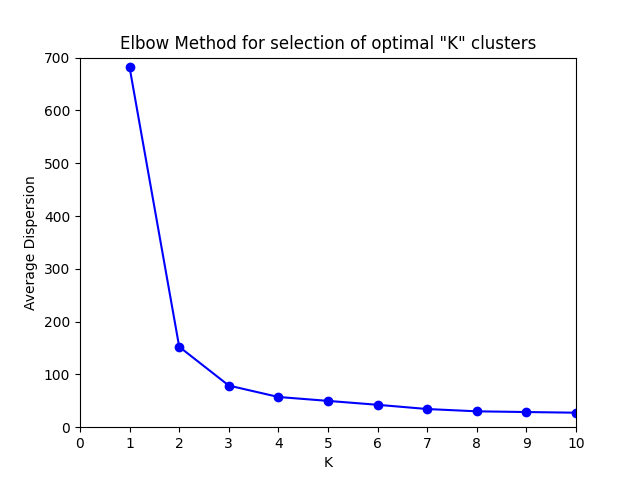
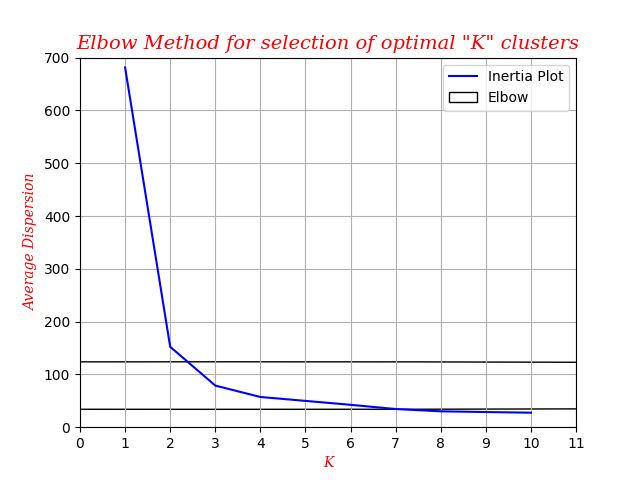
almost finished graph

diff --git a/bonus.py b/bonus.py
@@ -1,5 +1,6 @@
 import numpy as np 
 import matplotlib.pyplot as plt 
+import matplotlib.patches as patch
 from sklearn.datasets import load_iris
 from sklearn.cluster import KMeans
 
@@ -13,15 +14,19 @@ def main():
     x_coordinates, y_coordinates = zip(*results)
     max_inertia = max(y_coordinates)
     fig, ax = plt.subplots()
-    ax.set_xlim(0, 9)
-    ax.set_xticks(np.arange(0, 11, 1))
-    ax.set_ylim(0, 3)
+    ax.set_xlim(0, None)
+    ax.set_xticks(np.arange(0, 11.5, 1))
+    ax.set_ylim(0, None)
     ax.set_yticks(np.arange(0, max_inertia * 1.15, 100))
-    ax.set_title('Elbow Method for selection of optimal "K" clusters')
-    ax.set_xlabel("K")
-    ax.set_ylabel("Average Dispersion")
-    ax.plot(x_coordinates, y_coordinates, marker='o', linestyle='-', color='blue')
-
+    font1 = {'family':'serif','color':'red','size': 14, 'style': 'italic'}
+    font2 = {'family':'serif','color':'red','size': 10, 'style': 'italic'}
+    ax.set_title('Elbow Method for selection of optimal "K" clusters', fontdict = font1)
+    ax.set_xlabel("K", fontdict=font2)
+    ax.set_ylabel("Average Dispersion", fontdict=font2)
+    ax.plot(x_coordinates, y_coordinates, linestyle='-', color='blue', label='Inertia Plot')
+    elbow = (3,results[2][1])
+    ax.grid()
+    ax.legend(['Inertia Plot', 'Elbow'])
 if __name__ == '__main__':
     main()
     plt.savefig('elbow.png')
